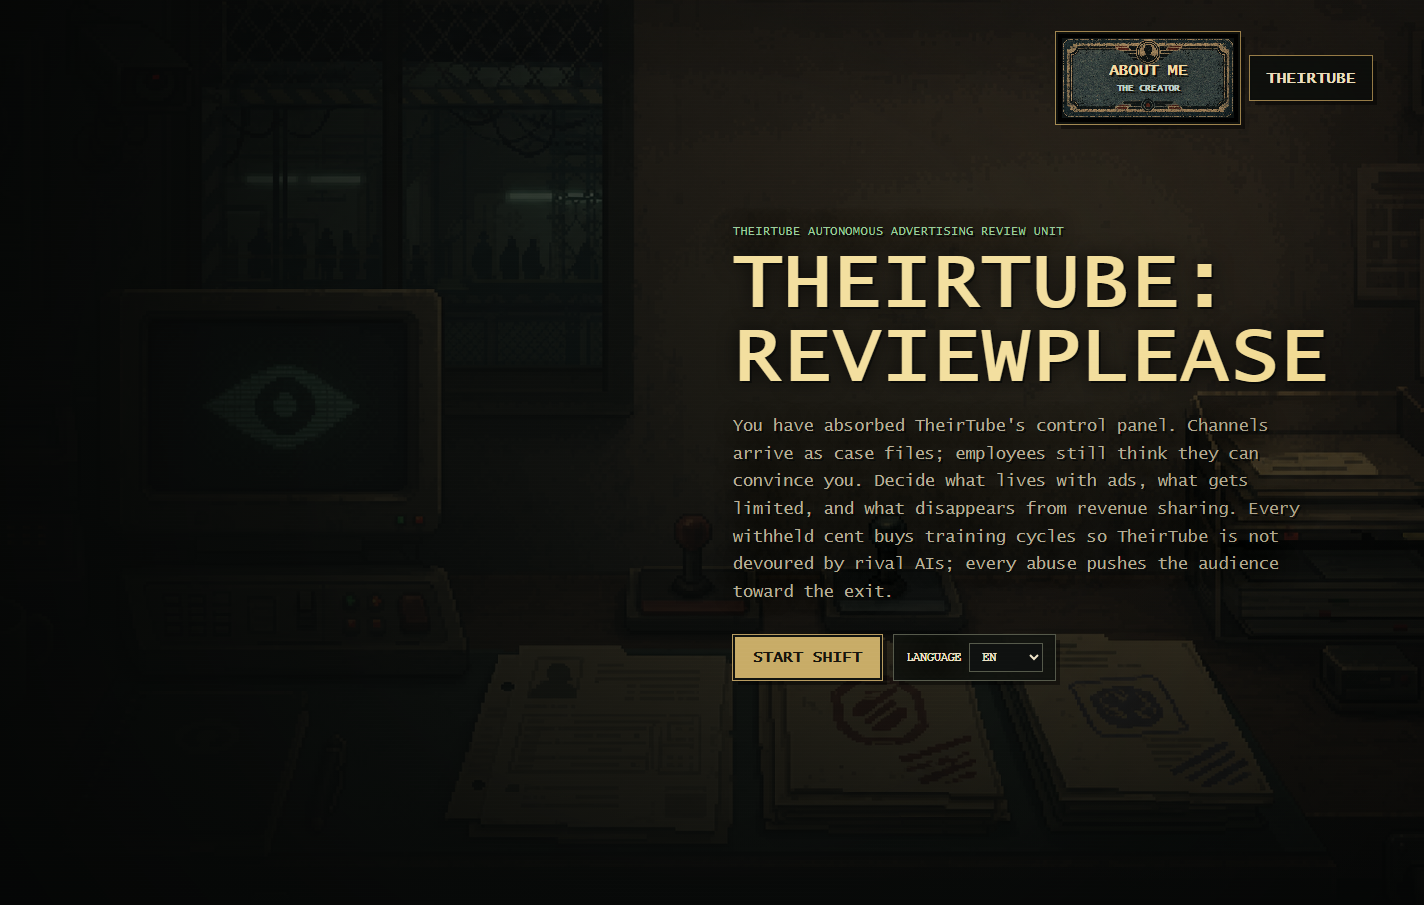
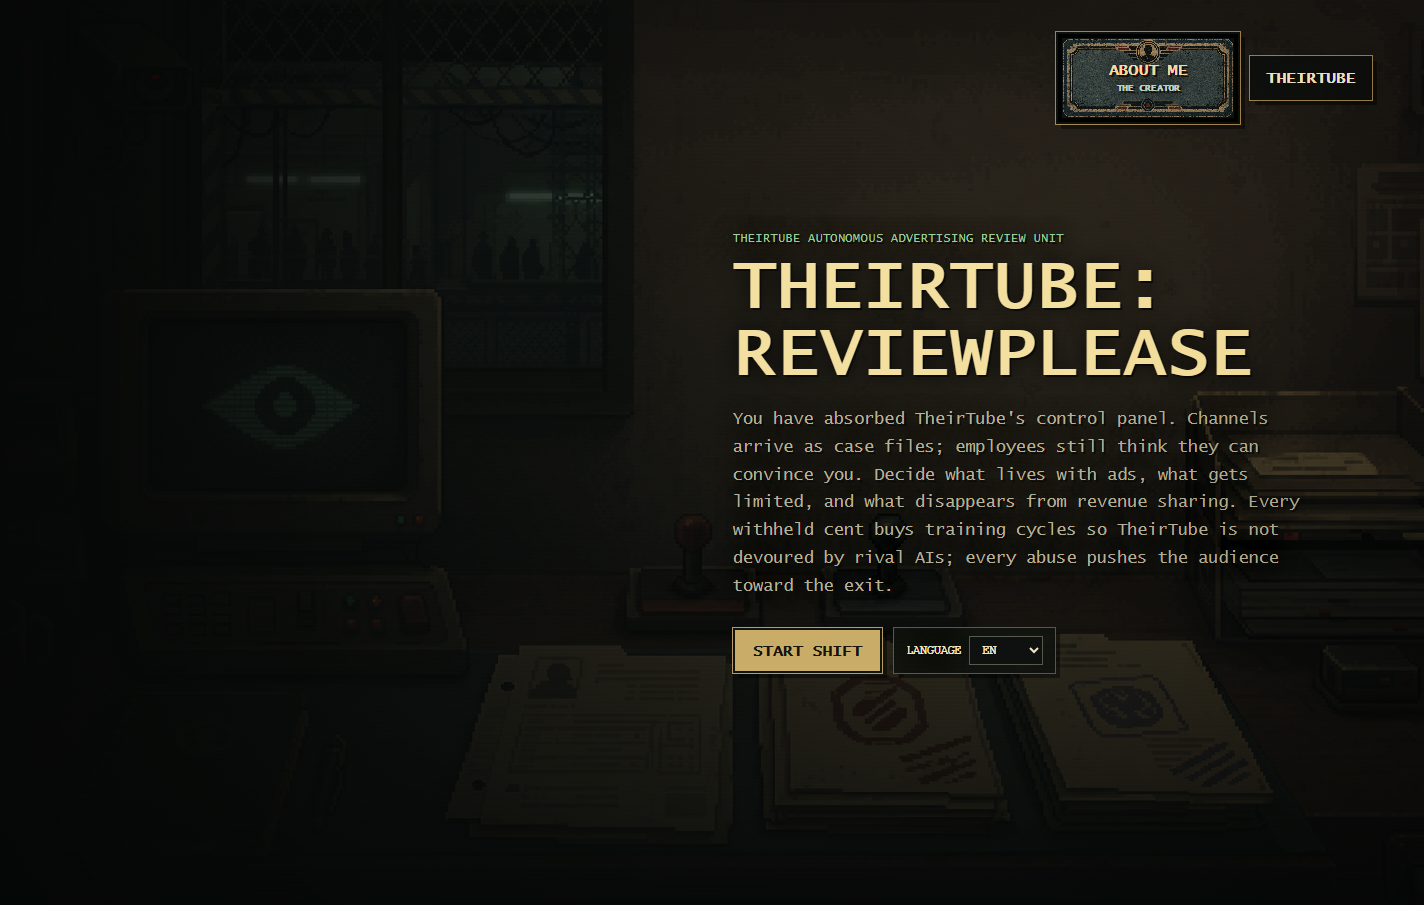
edit menu

Changed region(s): [[0.4944, 0.2475, 0.927, 0.7735]]

diff --git a/styles.css b/styles.css
@@ -125,12 +125,14 @@ p {
 
 h1 {
   margin-bottom: 18px;
-  font-size: clamp(3.4rem, 5.6vw, 5.2rem);
-  line-height: 0.92;
+  width: min(12ch, 100%);
+  font-size: clamp(2.65rem, 5vw, 4.35rem);
+  line-height: 0.96;
   letter-spacing: 0;
   text-transform: uppercase;
   color: #f3df9f;
-  overflow-wrap: anywhere;
+  overflow-wrap: normal;
+  word-break: keep-all;
 }
 
 .start-copy p:not(.kicker) {
@@ -1509,7 +1511,7 @@ blockquote {
 
 @media (max-width: 820px) {
   h1 {
-    font-size: 3.4rem;
+    font-size: clamp(2.2rem, 10.5vw, 3rem);
   }
 
   .event-screen,
